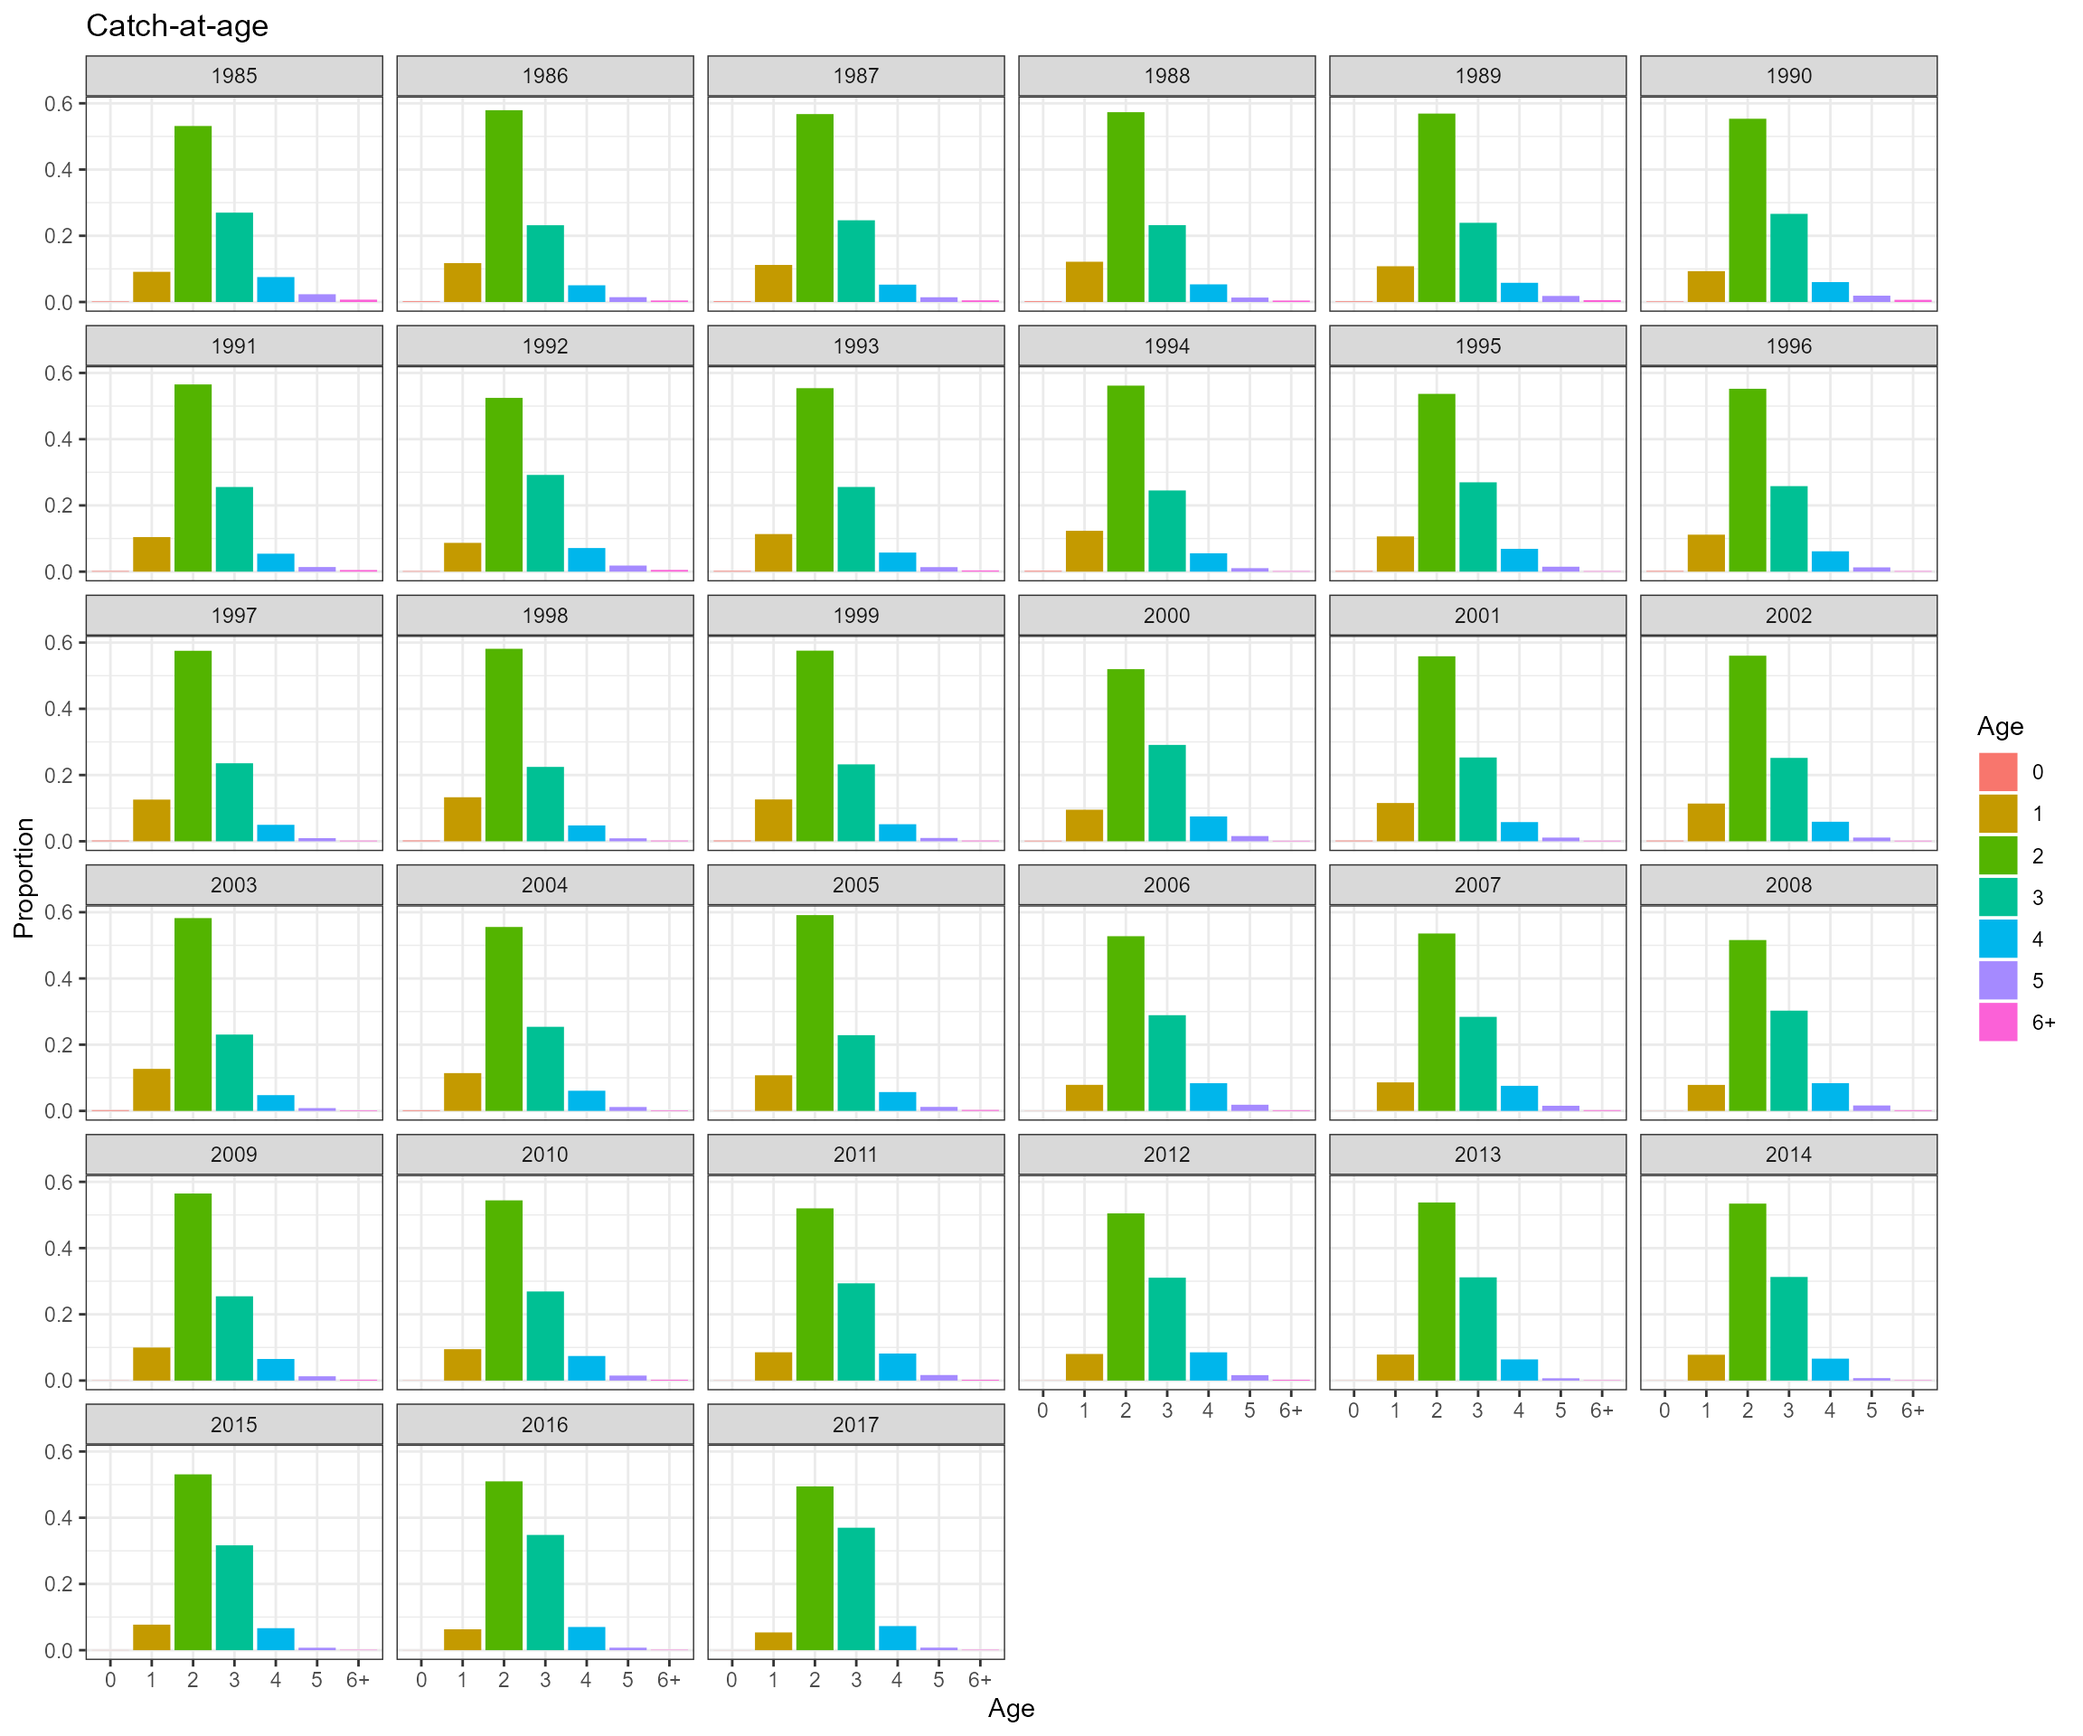
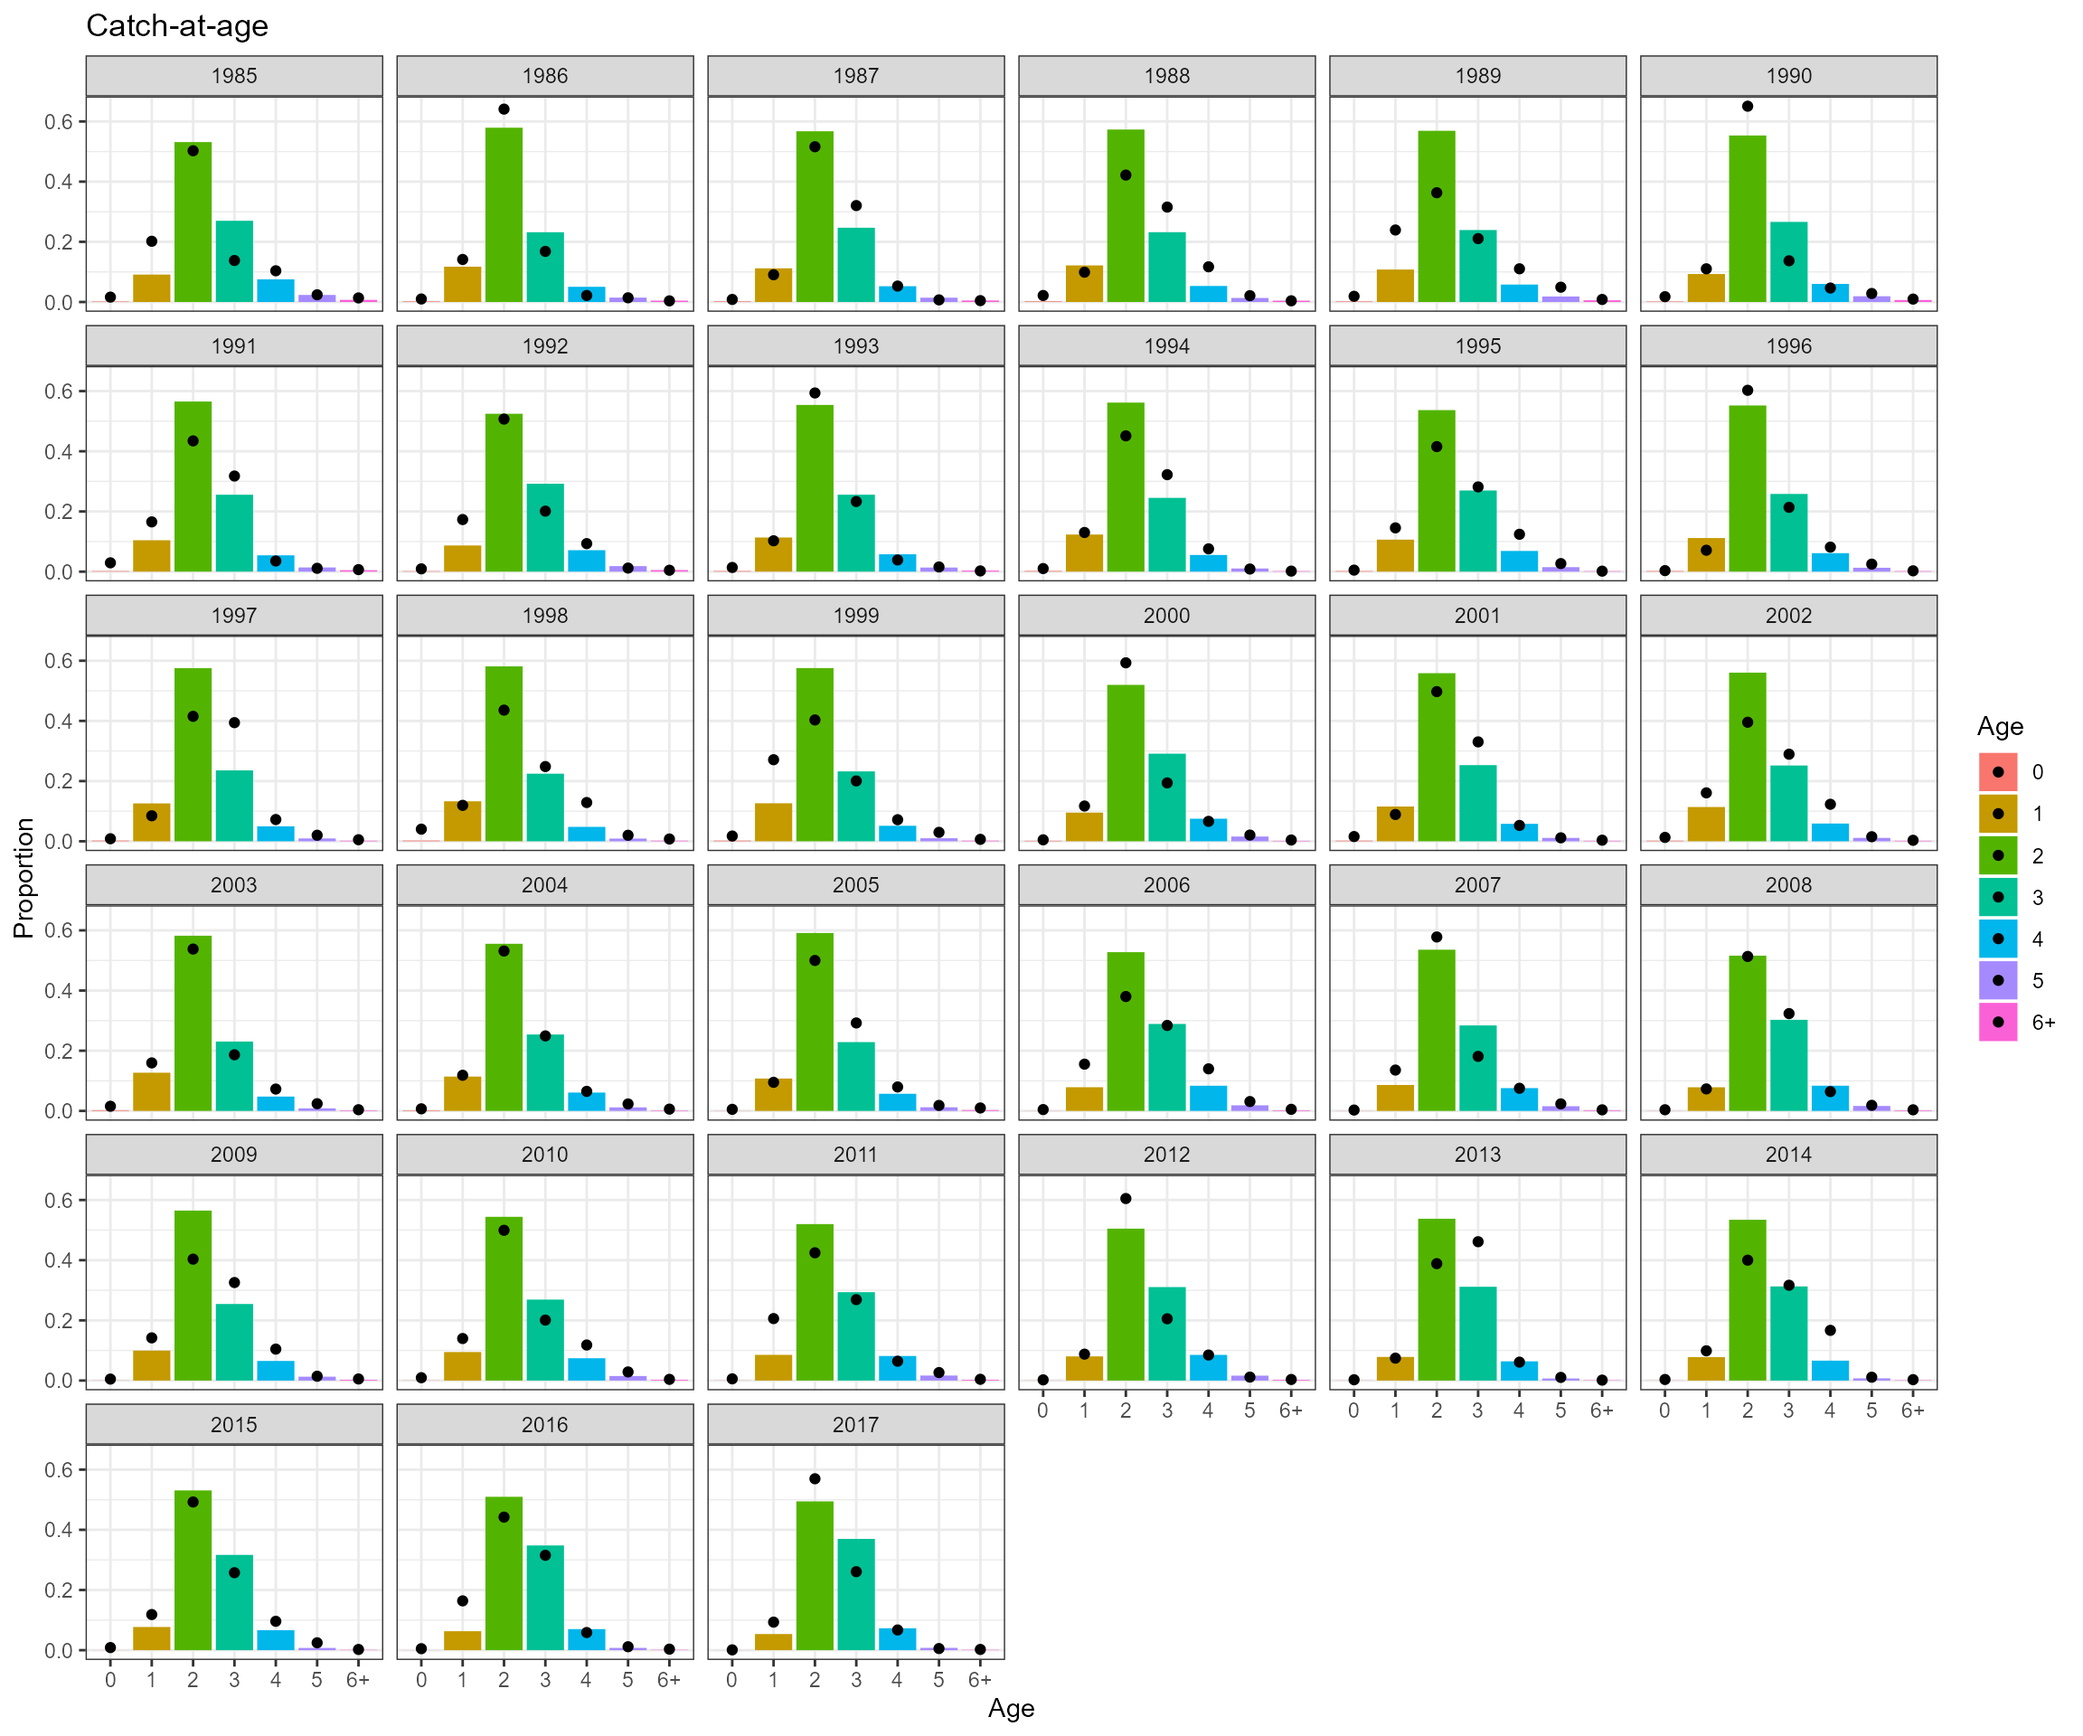
add BAM outputs to figures

diff --git a/docs/articles/test.html b/docs/articles/test.html
@@ -114,7 +114,7 @@
             <h4 data-toc-skip class="date">Updated on Feb 14, 2022</h4>
       
       
-      <div class="hidden name"><code>03_Ecosystem_model_restructuring.Rmd</code></div>
+      <div class="hidden name"><code>test.Rmd</code></div>
 
     </div>
 
@@ -125,47 +125,41 @@
 </h2>
 <p>The goal of the this work is to restructure an EwE model that include a menhaden-like species with 7 age classes (i.e. 0 - 6+). An existing EwE model of the Northwest Atlantic Continental Shelf model of intermediate complexity for ecosystems (NWACS-MICE) was previously developed to link the dynamics of menhaden with key managed predators (<a href="https://doi.org/10.3389/fmars.2020.606417" class="external-link">Chagaris et al., 2020</a>). There were two age classes of menhaden in the NWACS-MICE model. To restructure the MWACS-MICE model, we made following changes:</p>
 <ul>
-<li>
-<p>Updated Ecopath multi-stanza groups (menhaden-like species)</p>
-<ul>
+<li><p>Updated Ecopath multi-stanza groups (menhaden-like species)</p></li>
 <li><p>Updated age 6+ biomass in 1985 using Beaufort Assessment Model (BAM) outputs (<a href="http://sedarweb.org/sedar-69-atlantic-menhaden-benchmark-stock-assessment-report" class="external-link">SEDAR 2020</a>).</p></li>
 <li><p>Updated total mortality-at-age in 1985 inputs using <span class="math inline">\(C_{a}/B_{a}+M_{a}\)</span> with BAM outputs. Here <span class="math inline">\(C\)</span>, <span class="math inline">\(B\)</span>, and <span class="math inline">\(M\)</span> represent catch, biomass, and natural mortality respectively. <span class="math inline">\(a\)</span> denotes age.</p></li>
 <li><p>Updated relative biomass accumulation rate (BA/B). Three scenarios were explored: 1) 0.114 from Chagaris et al. (2020), 2) EwE default value of 0, 3) -0.081 based on <span class="math inline">\((B_{1986} - B_{1985})/B_{1986}\)</span> (<a href="https://hjort.cbl.umces.edu/NWACS/TS_694_17_NWACS_Model_Documentation.pdf" class="external-link">Buchheister et al., 2017</a>). Both BA/B = 0 and BA/B = -0.081 help improve agreement between Ecosim predicted catch with observed catch and BA/B = 0 showed lower sum of squares (SS) value. SS values from scenarios 1 - 3 were 3059, 2339, and 3136 respectively. So we used BA/B = 0 for base run. Key figures from the three scenarios could be found <a href="https://drive.google.com/file/d/1s6MHeuN8xo273gCszfKRRNl791KZbjYp/view?usp=sharing" class="external-link">here</a>.</p></li>
-</ul>
-</li>
 <li><p>Updated Ecopath diet composition using inputs from NWACS-MICE model (Chagaris et al., 2020), full NWACS model (Buchhester et al., 2017), and BAM M-at-age data.</p></li>
 <li><p>Updated Ecopath C-at-age using BAM outputs.</p></li>
 <li><p>Updated Ecosim vulnerabilities and ages 1-6+ share the same vulnerability values.</p></li>
 <li><p>Updated time series matrix using I-at-age, C-at-age, and F-at-age from BAM outputs. Here <span class="math inline">\(I\)</span> and <span class="math inline">\(F\)</span> represent abundance indices and fishing mortality respectively.</p></li>
 <li><p>A few forcing scenarios were tested to explore various sources of environmental variability. For example, primary production splines was applied to phytoplankton, recruitment deviations from Chagaris et al. (2020) and BAM outputs were linked with menhaden age 0 fish. However, incorporating primary production splines did help soak up some of the process variability in the food web dynamics and did not help improve model fits. Incorporation of recruitment deviations did not help better represent interannual variability in the system. <strong>Question: Maybe not apply forcing functions to the EwE model, but exploring relationships between environmental drivers and menhaden biomass when adjusting <span class="math inline">\(F_{ECO}\)</span>?</strong>.</p></li>
-<li><p><strong>Density-dependent growth: According to <a href="https://repository.oceanbestpractices.org/bitstream/handle/11329/498/Ewe%20User%20Guide%206.pdf?sequence=2&amp;isAllowed=y" class="external-link">EwE 6.0 guide</a>, users could set a non-zero feeding time adjustment for the juvenile group and this represents density-dependent changes in juvenile mortality rate associated with changes in feeding time and predation risk. The feeding time adjust rate for age 0 of menhaden-like species was set to 0.5.</strong></p></li>
+<li>
+<p><strong>Density-dependent growth: According to <a href="https://repository.oceanbestpractices.org/bitstream/handle/11329/498/Ewe%20User%20Guide%206.pdf?sequence=2&amp;isAllowed=y" class="external-link">EwE 6.0 guide</a>, users could set a non-zero feeding time adjustment for the juvenile group and this represents density-dependent changes in juvenile mortality rate associated with changes in feeding time and predation risk. The feeding time adjust rate for age 0 of menhaden-like species was set to 0.5.</strong></p>
+<h2 id="comparison-between-ewe-model-with-2-age-classes-of-menhaden-chagaris-et-al.-2020-and-ewe-model-with-7-age-classes-of-menhaden-like-species.">Comparison between EwE model with 2 age classes of menhaden (Chagaris et al., 2020) and EwE model with 7 age classes of menhaden-like species.</h2>
+</li>
 </ul>
-</div>
-<div class="section level2">
-<h2 id="comparison-between-ewe-model-with-2-age-classes-of-menhaden-chagaris-et-al--2020-and-ewe-model-with-7-age-classes-of-menhaden-like-species-">Comparison between EwE model with 2 age classes of menhaden (Chagaris et al., 2020) and EwE model with 7 age classes of menhaden-like species.<a class="anchor" aria-label="anchor" href="#comparison-between-ewe-model-with-2-age-classes-of-menhaden-chagaris-et-al--2020-and-ewe-model-with-7-age-classes-of-menhaden-like-species-"></a>
-</h2>
-<p><img src="03_Ecosystem_model_restructuring_files/figure-html/unnamed-chunk-1-1.png" width="1152"><img src="03_Ecosystem_model_restructuring_files/figure-html/unnamed-chunk-1-2.png" width="1152"></p>
+<p><img src="test_files/figure-html/unnamed-chunk-1-1.png" width="1152"><img src="test_files/figure-html/unnamed-chunk-1-2.png" width="1152"></p>
 </div>
 <div class="section level2">
 <h2 id="biomass-at-age-of-menhaden-like-species-over-years-1985---2017">Biomass-at-age of menhaden-like species over years (1985 - 2017)<a class="anchor" aria-label="anchor" href="#biomass-at-age-of-menhaden-like-species-over-years-1985---2017"></a>
 </h2>
-<p><img src="03_Ecosystem_model_restructuring_files/figure-html/unnamed-chunk-2-1.png" width="1152"></p>
-<p>The bars represents the outputs from EwE and the solid points represent the outputs from BAM stock assessment outputs.</p>
+<p><img src="test_files/figure-html/unnamed-chunk-2-1.png" width="1152"></p>
 </div>
 <div class="section level2">
 <h2 id="mortality-at-age-of-menhaden-like-species-over-years-1985---2017">Mortality-at-age of menhaden-like species over years (1985 - 2017)<a class="anchor" aria-label="anchor" href="#mortality-at-age-of-menhaden-like-species-over-years-1985---2017"></a>
 </h2>
-<p><img src="03_Ecosystem_model_restructuring_files/figure-html/unnamed-chunk-3-1.png" width="1152"></p>
+<p><img src="test_files/figure-html/unnamed-chunk-3-1.png" width="1152"></p>
 </div>
 <div class="section level2">
 <h2 id="catch-at-age-of-menhaden-like-species-over-years-1985---2017">Catch-at-age of menhaden-like species over years (1985 - 2017)<a class="anchor" aria-label="anchor" href="#catch-at-age-of-menhaden-like-species-over-years-1985---2017"></a>
 </h2>
-<p><img src="03_Ecosystem_model_restructuring_files/figure-html/unnamed-chunk-4-1.png" width="1152"></p>
+<p><img src="test_files/figure-html/unnamed-chunk-4-1.png" width="1152"></p>
 </div>
 <div class="section level2">
 <h2 id="weight-at-age-of-menhaden-like-spcies-over-years-1985---2017">Weight-at-age of menhaden-like spcies over years (1985 - 2017)<a class="anchor" aria-label="anchor" href="#weight-at-age-of-menhaden-like-spcies-over-years-1985---2017"></a>
 </h2>
-<p><img src="03_Ecosystem_model_restructuring_files/figure-html/unnamed-chunk-5-1.png" width="1152"></p>
+<p><img src="test_files/figure-html/unnamed-chunk-5-1.png" width="1152"></p>
 </div>
 <div class="section level2">
 <h2 id="acknowledgements">Acknowledgements<a class="anchor" aria-label="anchor" href="#acknowledgements"></a>

diff --git a/docs/articles/index.html b/docs/articles/index.html
@@ -96,6 +96,8 @@
         <dd>
         </dd><dt><a href="03_Ecosystem_model_restructuring.html">Ecosystem model restructuring</a></dt>
         <dd>
+        </dd><dt><a href="test.html">Ecosystem model restructuring</a></dt>
+        <dd>
       </dd></dl></div>
   </div>
 </div>
